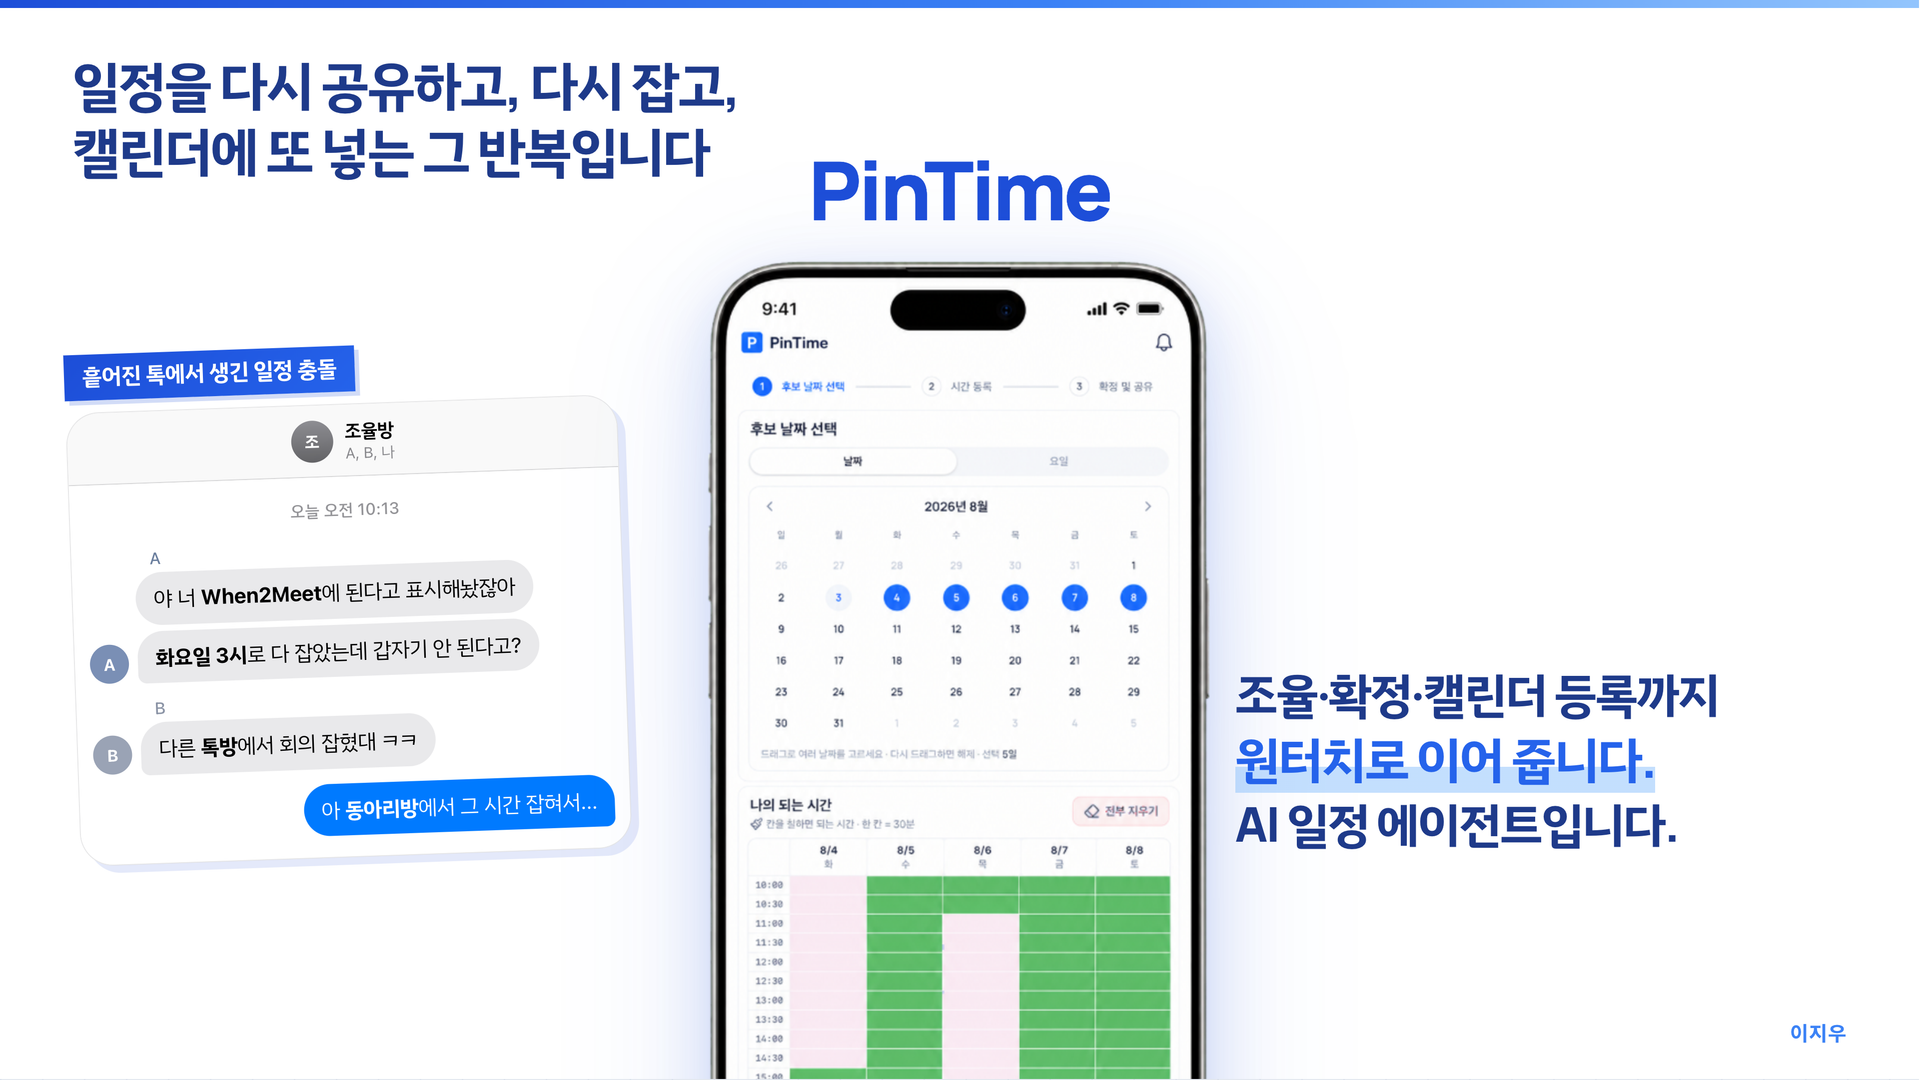
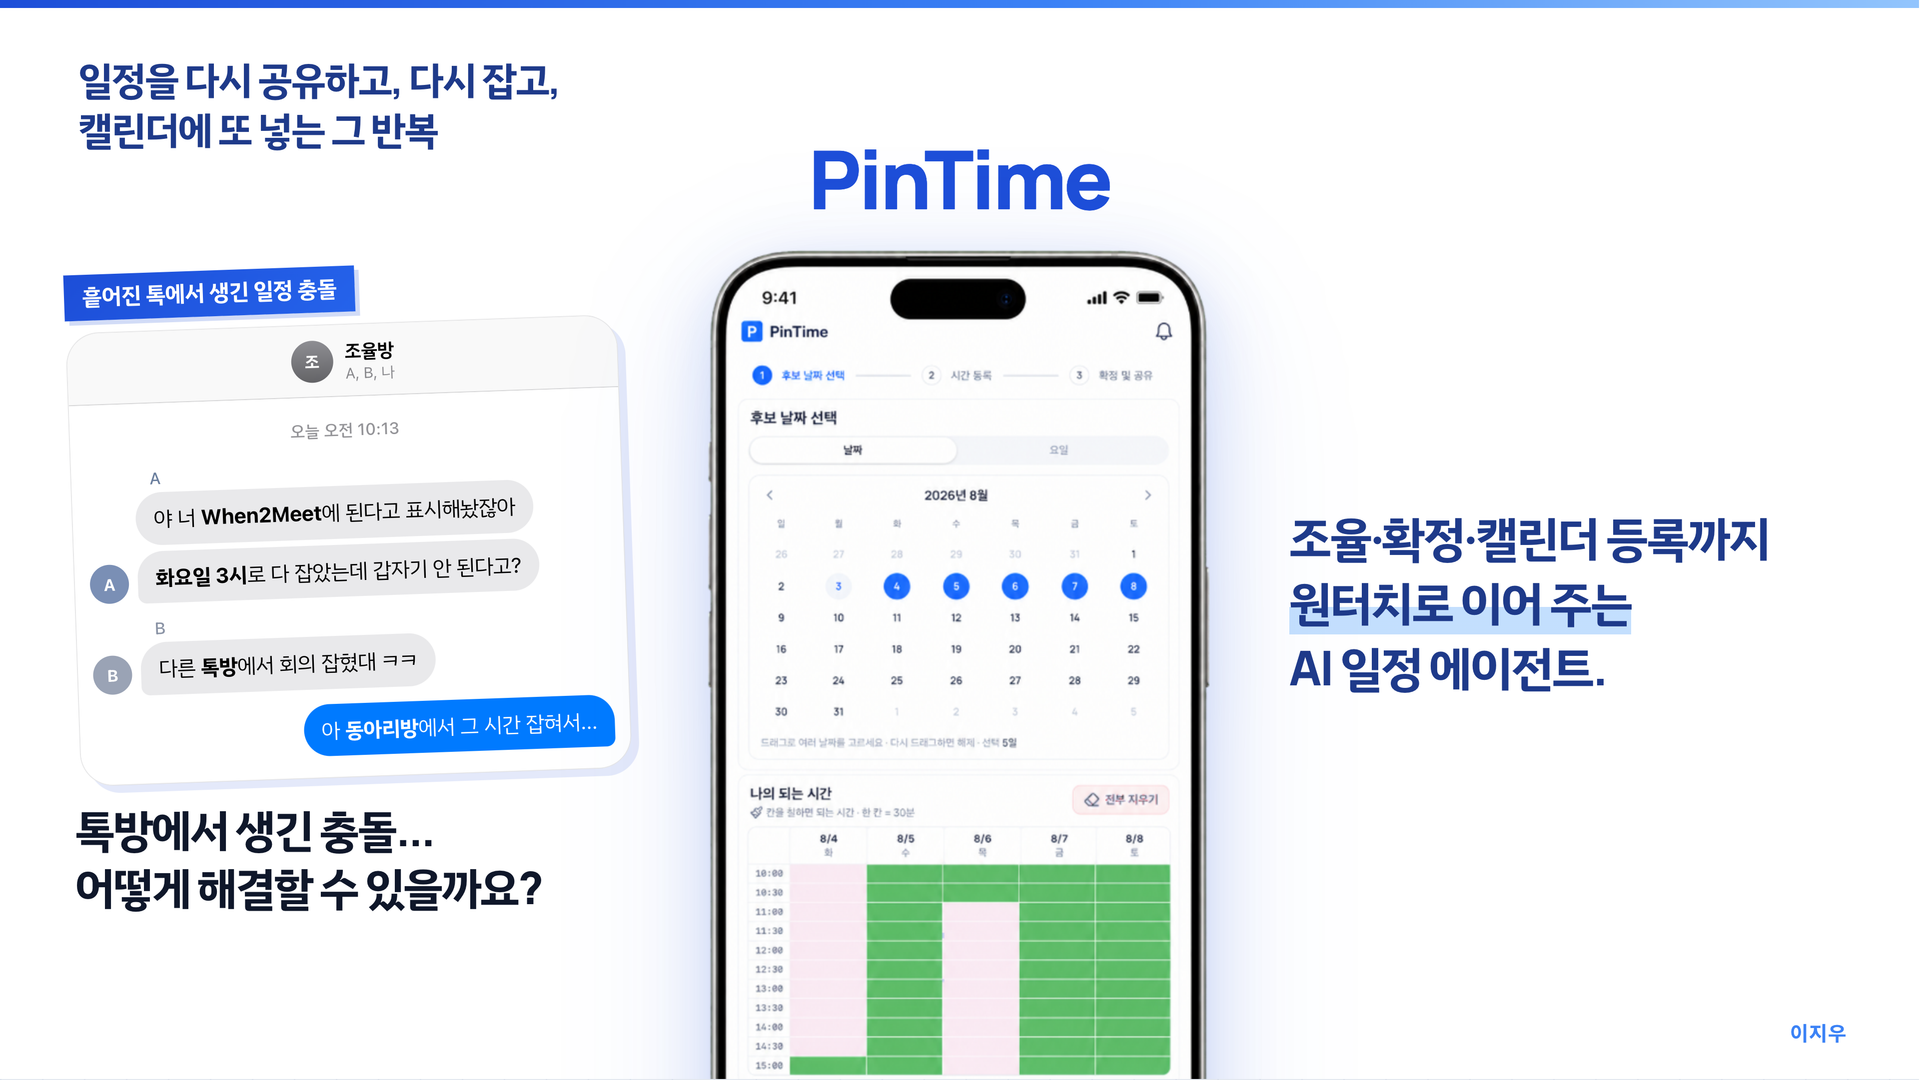
Tune cover text size and placement to match the reference layout.

diff --git a/public/pitch.html b/public/pitch.html
@@ -1191,13 +1191,14 @@
 
       .cover-problem {
         margin: 0;
-        max-width: 8.5in;
+        max-width: 7.2in;
         font-family: Manrope, 'IBM Plex Sans KR', sans-serif;
-        font-size: 36px;
+        font-size: 26px;
         font-weight: 800;
         letter-spacing: -0.035em;
-        line-height: 1.22;
+        line-height: 1.28;
         color: #1e3a8a;
+        transform: translate(4px, 2px);
       }
 
       .cover-stage {
@@ -1206,8 +1207,28 @@
         align-items: center;
         gap: 12px;
         min-height: 0;
-        margin-top: 4px;
+        margin-top: 10px;
         overflow: visible;
+      }
+
+      .cover-left {
+        display: flex;
+        flex-direction: column;
+        align-items: stretch;
+        gap: 14px;
+        min-width: 0;
+        align-self: center;
+      }
+
+      .cover-ask {
+        margin: 0;
+        font-family: Manrope, 'IBM Plex Sans KR', sans-serif;
+        font-size: 30px;
+        font-weight: 800;
+        letter-spacing: -0.04em;
+        line-height: 1.28;
+        color: #0f172a;
+        transform: translate(2px, 2px);
       }
 
       .cover-chat-wrap {
@@ -1477,14 +1498,16 @@
 
       .cover-tagline {
         margin: 0;
-        max-width: 5.2in;
+        max-width: 5.4in;
         font-family: Manrope, 'IBM Plex Sans KR', sans-serif;
         font-size: 32px;
         font-weight: 800;
-        letter-spacing: -0.035em;
-        line-height: 1.32;
+        letter-spacing: -0.04em;
+        line-height: 1.36;
         color: #1e3a8a;
-        transform: translate(-40px, 105px);
+        align-self: center;
+        justify-self: start;
+        transform: translate(-4px, 8px);
         word-break: keep-all;
         overflow-wrap: normal;
       }
@@ -1494,9 +1517,8 @@
       }
 
       .cover-tagline .ai {
-        color: #2563eb;
-        font-size: 1.05em;
-        background: linear-gradient(180deg, transparent 62%, rgba(147, 197, 253, 0.55) 62%);
+        color: #1e3a8a;
+        background: linear-gradient(180deg, transparent 58%, rgba(147, 197, 253, 0.55) 58%);
       }
 
       .cover-foot {
@@ -2446,10 +2468,11 @@
       <section class="slide cover" id="cover">
         <div class="slide-inner">
           <h1 class="cover-problem">
-            일정을 다시 공유하고, 다시 잡고,<br />캘린더에 또 넣는 그 반복입니다
+            일정을 다시 공유하고, 다시 잡고,<br />캘린더에 또 넣는 그 반복
           </h1>
 
           <div class="cover-stage">
+            <div class="cover-left">
             <div class="cover-chat-wrap">
               <div class="chat-label">흩어진 톡에서 생긴 일정 충돌</div>
               <div class="cover-chat" aria-label="일정 충돌이 난 iMessage 대화">
@@ -2498,6 +2521,10 @@
                 </div>
               </div>
             </div>
+            <p class="cover-ask">
+              톡방에서 생긴 충돌...<br />어떻게 해결할 수 있을까요?
+            </p>
+            </div>
 
             <div class="cover-phone-col">
               <div class="cover-wordmark">PinTime</div>
@@ -2511,8 +2538,8 @@
 
             <p class="cover-tagline">
               <span class="line">조율·확정·캘린더 등록까지</span><br />
-              <span class="line ai">원터치로 이어 줍니다.</span><br />
-              <span class="line">AI 일정 에이전트입니다.</span>
+              <span class="line ai">원터치로 이어 주는</span><br />
+              <span class="line">AI 일정 에이전트.</span>
             </p>
           </div>
 
